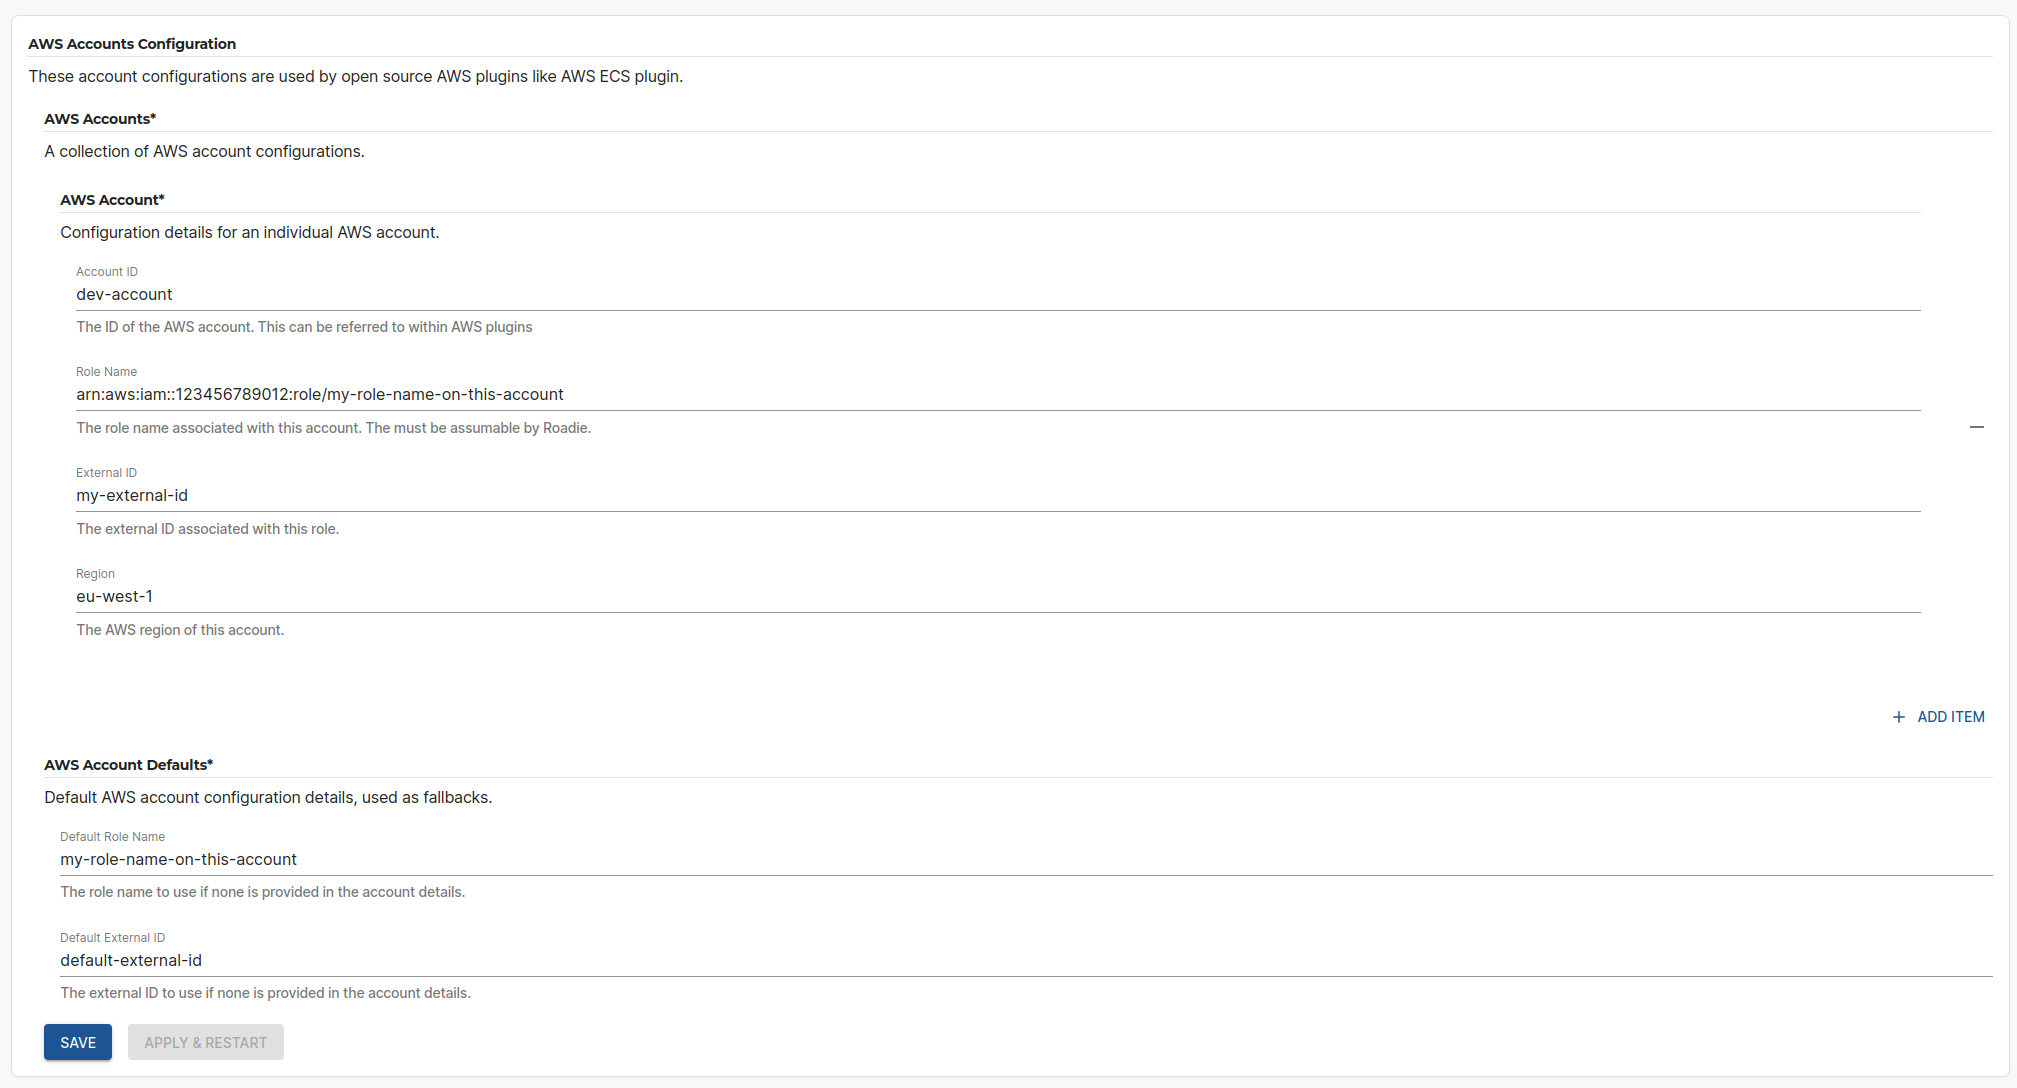
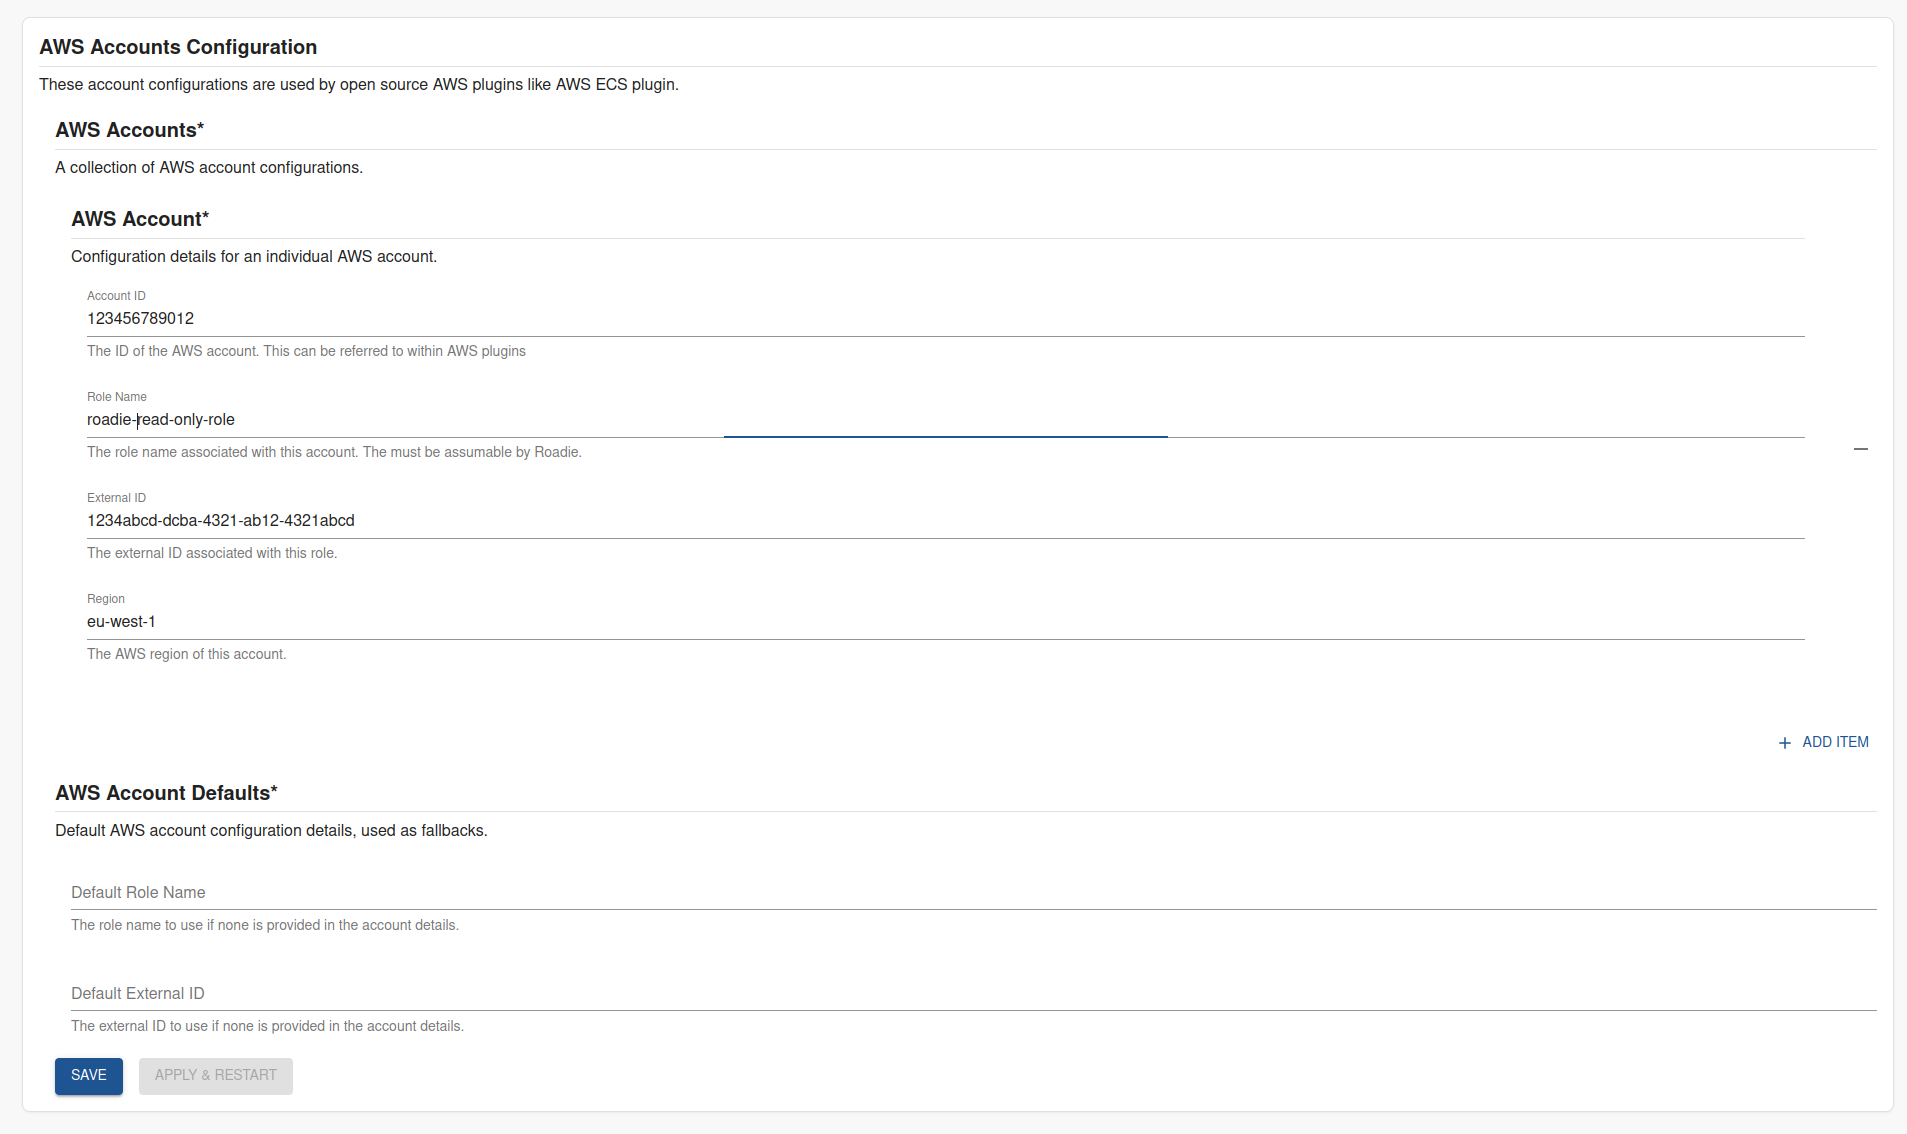
Update image to match expected. Account id needs to be an id

diff --git a/content/docs/integrations/aws-plugins/index.md b/content/docs/integrations/aws-plugins/index.md
@@ -14,6 +14,8 @@ Amazon Web Services have produced and open sourced their own plugins for the Bac
 
 This guide describes how to set up Roadie to use AWS account configurations and to enable AWS plugins.
 
+![running-cluster.png](running-cluster.png)
+
 
 ##  Step 1: Get the roadie IAM details
 
@@ -74,7 +76,7 @@ The permissions needed for ECS plugin to work and be able to list your ECS resou
 }
 ```
 
-The plugin exposes 2 annotations that can be used to identify the correct ECS Cluster information to display:
+The plugin exposes an annotation that can be used to point to the correct ECS Cluster information to display:
 
 ```yaml
 # Example
@@ -83,8 +85,7 @@ kind: Component
 metadata:
   # ...
   annotations:
-    aws.amazon.com/amazon-ecs-service-tags: component=myapp,environment=prod # services with the matching tags
-    aws.amazon.com/amazon-ecs-service-arn: arn:aws:ecs:us-west-2:1234567890:service/cluster1/myapp-service # specific ECS service by ARN
+    aws.amazon.com/amazon-ecs-service-arn: arn:aws:ecs:us-west-2:123456789012:service/cluster1/myapp-service # specific ECS service by ARN
   # ...
 ```
 
